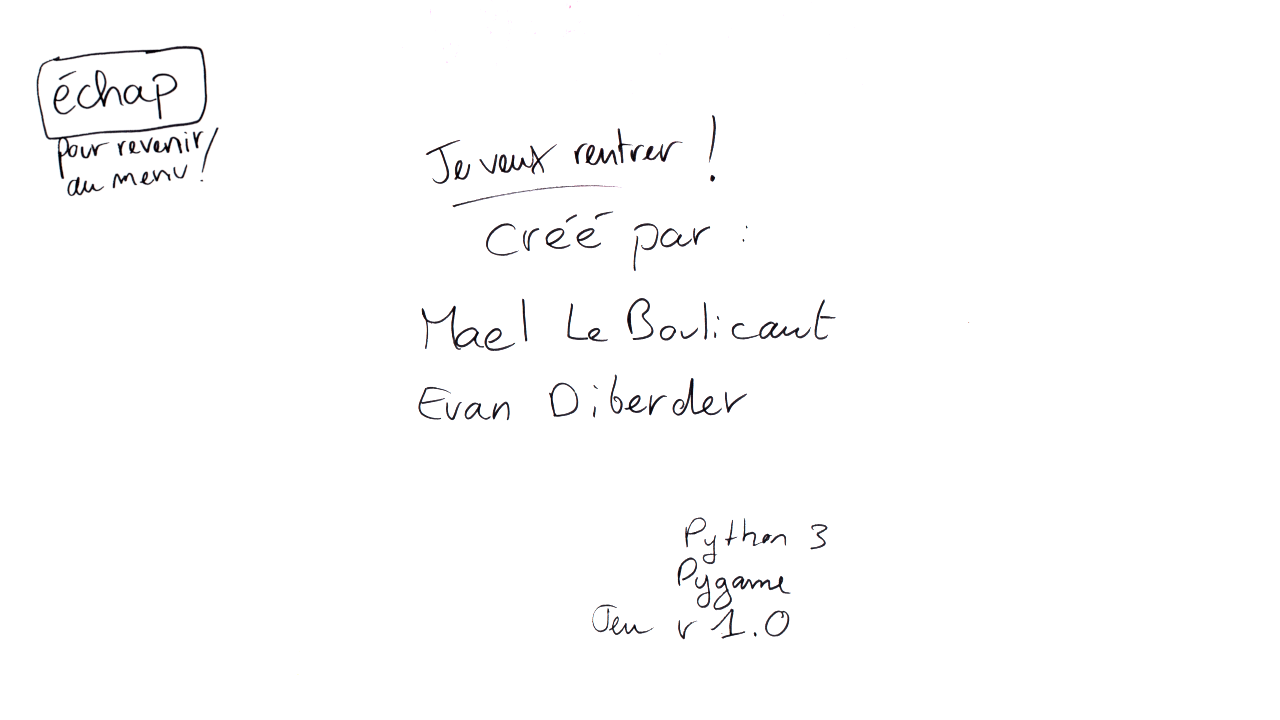
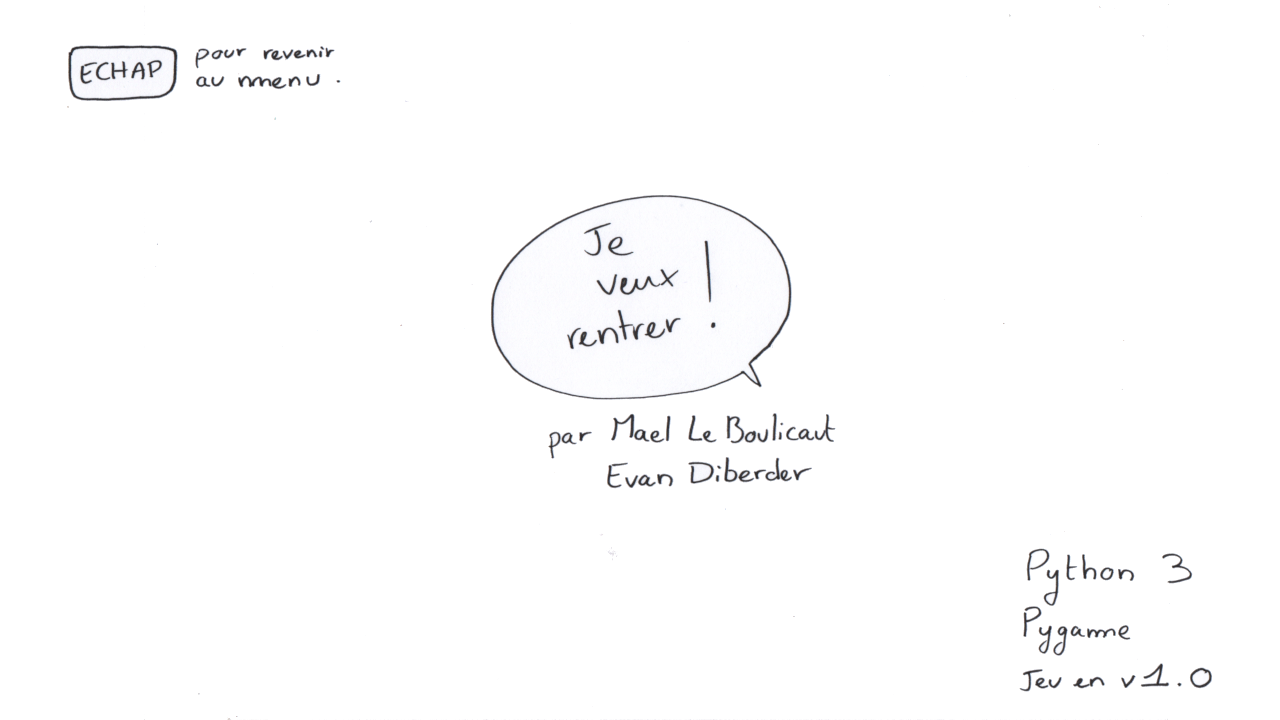
Ajout du design de la canette + nouvel ecran de credits

diff --git a/main.py b/main.py
@@ -1,4 +1,3 @@
-
 #coding:utf-8
 
 #    Je veux rentrer !
@@ -231,8 +230,8 @@ while continuer:
     #Boucle jeu
     while jeu:
         if projectile.tir == False:
-            projectile.rect.x = joueur.rect.x + 10
-            projectile.rect.y = joueur.rect.y + 60
+            projectile.rect.x = joueur.rect.x + 30
+            projectile.rect.y = joueur.rect.y + 40
         for event in pygame.event.get():
             if event.type == pygame.QUIT:
                 continuer = False
